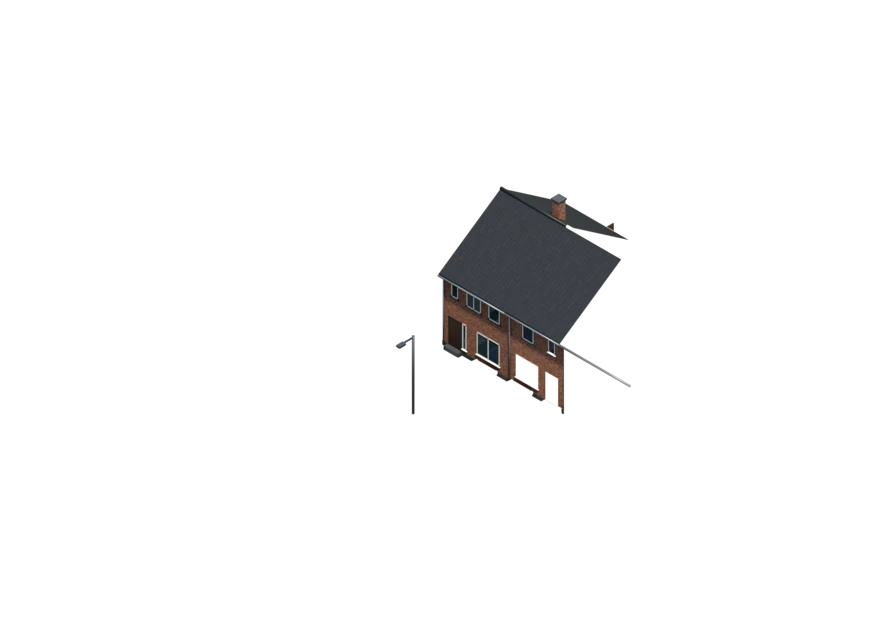
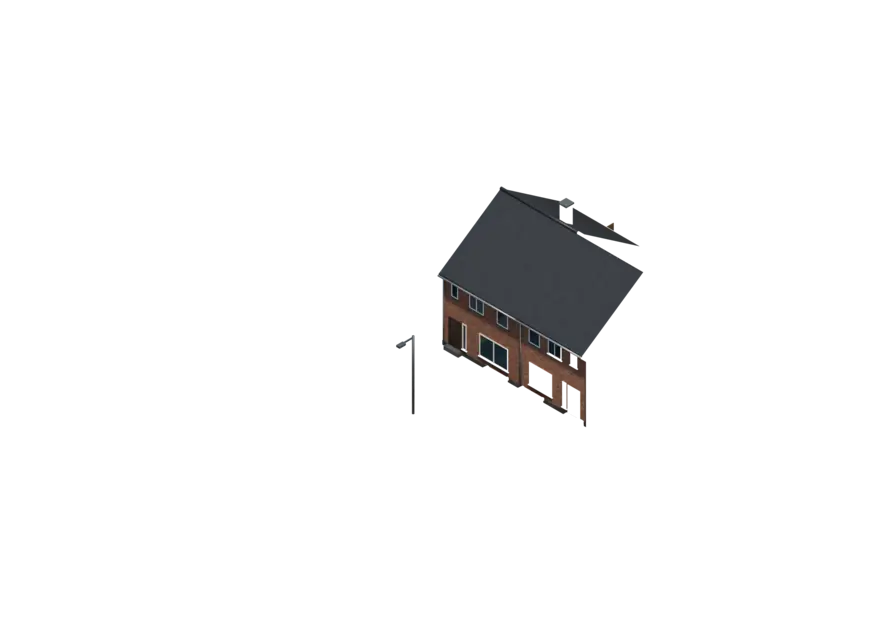
fix(straat): de omgeving blijft staan als je het huis groter of kleiner maakt
straat.py trok alle willekeur uit een gedeelde reeks, dus een breder huis gaf een
volledig andere straat. Elk perceel krijgt nu een vaste startwaarde volgens zijn plaats
ten opzichte van het huis, en de buren houden de standaardbreedte van het type.
IsoHouse3D laat de straat pas volgen als de oppervlakte-schuif 350 ms stilstaat.
Renders: rijwoning 5-6,5 m; de rest volgt.

Changed region(s): [[0.5246, 0.4256, 0.7406, 0.6688], [0.6171, 0.304, 0.7406, 0.3952]]

diff --git a/src/huis3d/3d/IsoHouse3D.tsx b/src/huis3d/3d/IsoHouse3D.tsx
@@ -697,6 +697,9 @@ function natPatchSet(set: MatSet, u: NatUniforms) {
   natPatch(set.get("vloer")!, u, "vloer");
 }
 
+/** Hoe lang (ms) de schuif van de vloeroppervlakte stil moet staan voor de straat volgt. */
+const SCHUIF_RUST = 350;
+
 interface Kader { cx: number; cy: number; ex: number; ey: number }
 /** Eén straatbeeld in beeld; `weg` is wanneer het begon weg te vloeien (-1: blijft). */
 interface StraatLaag { sleutel: string; woning: StraatWoning; w: number; l: number; lagen: number; periode: Periode; zicht: { current: number }; weg: number; geladen: boolean }
@@ -1085,7 +1088,18 @@ function Scene(props: SceneProps) {
   // het hele gebouw (anders sprong het gebouw rondom in één klap een laag hoger).
   // De straat volgt het gekozen type meteen; de woning zelf pas als die straat er staat.
   const sWoning = props.straatWoning ?? woning;
-  const sW = sWoning === woning ? w : props.straatBreedte ?? WONING[sWoning].w;
+  const gekozenW = sWoning === woning ? w : props.straatBreedte ?? WONING[sWoning].w;
+  // Een andere breedte (de schuif): de straat volgt pas als de schuif even stilstaat. Eerst
+  // wisselde ze bij elke stap, met een overvloei en een download per stap; tijdens het
+  // slepen groeit nu alleen de woning, daarna vloeit de straat één keer over. Een ander
+  // type gaat meteen (zie useTypeNaStraat).
+  const [rustW, setRustW] = useState({ woning: sWoning, w: gekozenW });
+  const sW = rustW.woning === sWoning ? rustW.w : gekozenW;
+  useEffect(() => {
+    if (rustW.woning === sWoning && rustW.w === gekozenW) return;
+    const t = window.setTimeout(() => setRustW({ woning: sWoning, w: gekozenW }), rustW.woning !== sWoning || reduced ? 0 : SCHUIF_RUST);
+    return () => window.clearTimeout(t);
+  }, [sWoning, gekozenW, rustW, reduced]);
   const sL = WONING[sWoning].l;
   const straatLagen = 1;
   // Another period has its own street (neighbours of that time): it cross-fades like another width.

diff --git a/scripts/simulator-3d/straat.py b/scripts/simulator-3d/straat.py
@@ -69,6 +69,10 @@ REPO = os.path.dirname(os.path.dirname(os.path.dirname(os.path.abspath(__file__)
 # Zelfde maten als src/huis3d/woning.ts (WONING) en src/huis3d/maten.ts.
 WONINGEN = {"rijwoning": (6, 10, 2), "halfopen": (8, 10, 1), "open": (10, 11, 0), "appartement": (9, 10, 0)}
 W, L, BUREN = WONINGEN[WONING]
+# De buren krijgen de standaardbreedte van het type, niet die van de live woning: anders
+# werd bij een andere vloeroppervlakte (de schuif) elk buurhuis mee breder en schoof de
+# hele straat, ook links en aan de overkant.
+W0 = W
 if os.environ.get("BREEDTE"):
     W = float(os.environ["BREEDTE"])
 APP = WONING == "appartement"
@@ -122,6 +126,13 @@ OPRIT_B, ZIJ = 3.0, 3.6
 OPRIT_R = 2.7  # parkeerplek in de voortuin van een rijwoning  # breedte van een oprit, en de strook naast het huis waarin ze ligt
 
 random.seed(4)
+
+
+def zaad(*sleutel):
+    """Zet de toeval vast op één plek in de straat. Eén doorlopende reeks voor alles liet
+    bij elke andere breedte alle bomen, struiken en tuinhuisjes verspringen: een bredere
+    woning plaatst een paar struiken meer, en alles daarna kreeg andere getallen."""
+    random.seed("|".join(str(k) for k in sleutel))
 
 
 def V(x, y, z):
@@ -1249,6 +1260,11 @@ def kavel(i, kant, x0, x1, hx0, hx1, oprit=None, eigen=False, vrij_l=False, vrij
     linker perceelgrens (alleen het eerste perceel van een rij)."""
     if not in_beeld(x0, x1, *zr(kant, 0, EIND), 12.0):
         return
+    # Per perceel, op zijn plek ten opzichte van de live woning: links en aan de overkant
+    # vanaf x = 0, rechts vanaf de rechtergevel. Zo staat bij elke breedte hetzelfde
+    # perceel er hetzelfde bij; de rechterrij schuift alleen op.
+    rel = x0 - W if kant == 1 and not eigen and x0 >= W else x0
+    zaad("kavel", WONING, PERIODE, kant, eigen, round(rel, 2))
     if eigen:
         dc = DEUR
     else:
@@ -1379,7 +1395,7 @@ def rij(kant, start, richting, eind, breedtes, soort):
 
 def omgeving():
     straat()
-    var = [W, W + 0.5, W - 0.5, W + 1.0, W]
+    var = [W0, W0 + 0.5, W0 - 0.5, W0 + 1.0, W0]
     soort = {2: "rij", 1: "half", 0: "open"}[BUREN]
     reik = 52
     if BUREN == 2:
@@ -1391,7 +1407,7 @@ def omgeving():
         # De live woning is de rechterhelft van een paar; haar partner staat links.
         lot1 = W + T + ZIJ
         kavel(0, 1, -T, lot1, -T, W + T, oprit=(lot1 - 0.3 - OPRIT_B, lot1 - 0.3), eigen=True, vrij_r=True)
-        bwp = W + 2 * T
+        bwp = W0 + 2 * T
         lo = -T - bwp - ZIJ
         kavel(1, 1, lo, -T, lo + ZIJ, -T, oprit=(lo + 0.3, lo + 0.3 + OPRIT_B), vrij_l=True)
         rij(1, lot1, 1, W + reik, var[1:], "half")
@@ -1406,6 +1422,7 @@ def omgeving():
 
     # Bomenrij op de perceelgrens achteraan, aan beide kanten.
     for kant in (1, -1):
+        zaad("bomenrij", WONING, PERIODE, kant)
         x = -reik
         while x < W + reik:
             bx_, bz_ = x + random.uniform(-1.5, 1.5), zs(kant, EIND + 3.5 + random.uniform(-1, 1))
@@ -1671,6 +1688,7 @@ def omgeving_appartement():
         blok("bank-rug", bx_, bx_ + 1.8, 0.48, 0.85, F - 3.25, F - 3.17, M["paaltje"])
         for px in (bx_ + 0.15, bx_ + 1.55):
             blok("bank-poot", px, px + 0.1, 0.12, 0.42, F - 3.15, F - 2.8, M["paal"])
+    zaad("plein", BOUWLAGEN, PERIODE)
     for bx_ in (W + T + 6.8, W + T + 11.3):
         verhard("plantvak", bx_ - 0.8, bx_ + 0.8, F - 1.6, F, M["schors"], 0.13)
         blok("plantvak-rand", bx_ - 0.85, bx_ + 0.85, 0.0, 0.22, F - 1.65, F + 0.05, M["boord"])
@@ -1689,6 +1707,7 @@ def omgeving_appartement():
     ZB = -T - 8.0  # einde van de privétuintjes
     verhard("koer", -T, W + T, -T - 4, -T, M["terras"], 0.12)
     x = -T
+    zaad("koer", BOUWLAGEN, PERIODE)
     for soort, b in traveeen:
         x0, x1 = x - b, x
         if soort == "unit":
@@ -1704,6 +1723,7 @@ def omgeving_appartement():
         x = x0
     if not ROUW:
         haag(xl, W + T + 2.0, *zr(1, EIND - 0.7, EIND), 1.9, 1300)
+        zaad("eilandbomen", BOUWLAGEN, PERIODE)
         for bx_, bz_ in ((-9.0, -12.5), (-24.0, -12.0), (W - 2.0, -9.5), (-36.0, -12.5)):
             # Iets in de grond: de eilandbomen hebben een lichte wortelvoet die op een gazon als vlek leest.
             plaats(random.choice(BOMEN[:2]), bx_, bz_, random.uniform(6.5, 8.5), y=-0.15)
@@ -1723,6 +1743,7 @@ def omgeving_appartement():
         verhard("boomvak", vx - 0.9, vx + 0.9, z0 + 0.15, z1 - 0.15, M["schors"], 0.02)
         blok("boomvak-rand", vx - 0.95, vx + 0.95, 0, 0.1, z0 + 0.1, z1 - 0.1, M["boord"])
         if not ROUW:
+            zaad("straatboom", BOUWLAGEN, PERIODE, vx)
             plaats(BOMEN[3], vx, pz_, random.uniform(7.0, 8.5))
             for k in range(2):
                 struik(vx + random.uniform(-0.5, 0.5), pz_ + random.uniform(-0.4, 0.4), random.uniform(0.3, 0.5), 0.5)
@@ -1762,6 +1783,7 @@ def omgeving_appartement():
         for kant in (1, -1):
             wd = gazon("weide", -60, W + 60, *zr(kant, EIND, EIND + 16), [])
             verspreid(wd, WEIDE, 260, (0.7, 1.4), hou_basis=False, rechtop=True)
+            zaad("bomenrij-app", BOUWLAGEN, PERIODE, kant)
             x = -60
             while x < W + 60:
                 bx_, bz_ = x + random.uniform(-1.5, 1.5), zs(kant, EIND + 3.5 + random.uniform(-1, 1))
